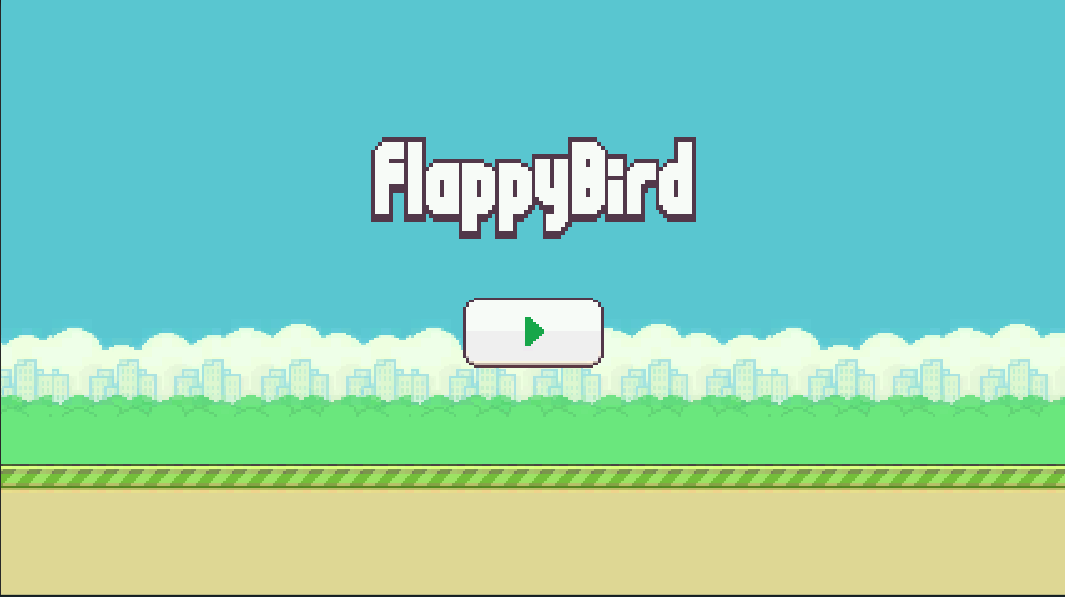
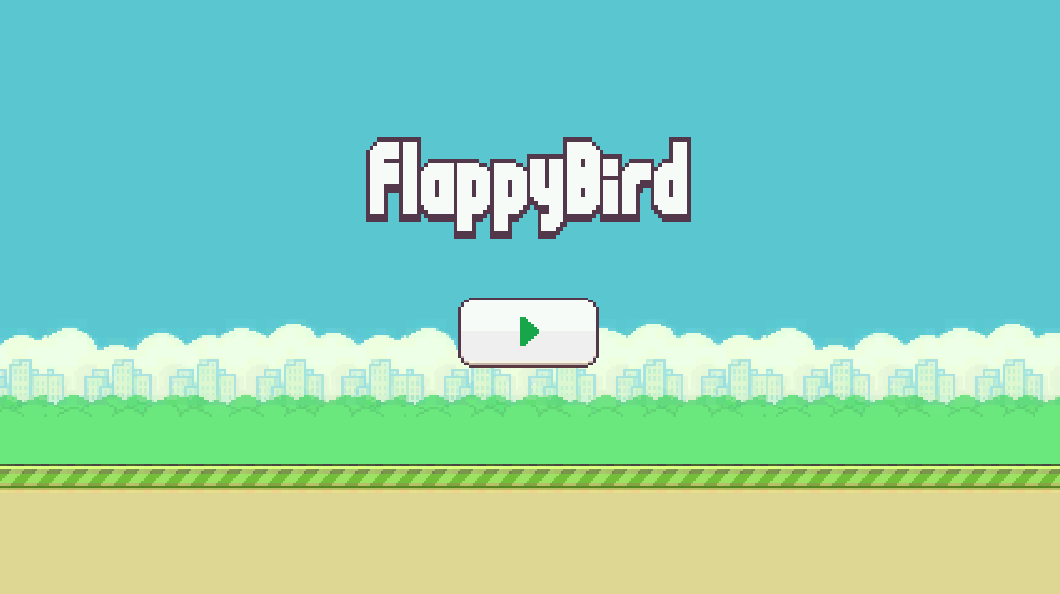
fix images

diff --git a/README.md b/README.md
@@ -1,7 +1,7 @@
 # FlappyBird
 
 <p align="center">
-  <img src="https://github.com/VictorHerbert/FlappyBird/raw/master/Assets/Resources/Screenshoots/Menu.png" width="1600" height="900"/>
+  <img src="https://github.com/VictorHerbert/FlappyBird/raw/master/Assets/Resources/Screenshoots/Menu.png" width="800" height="450"/>
 </p>
 
 
